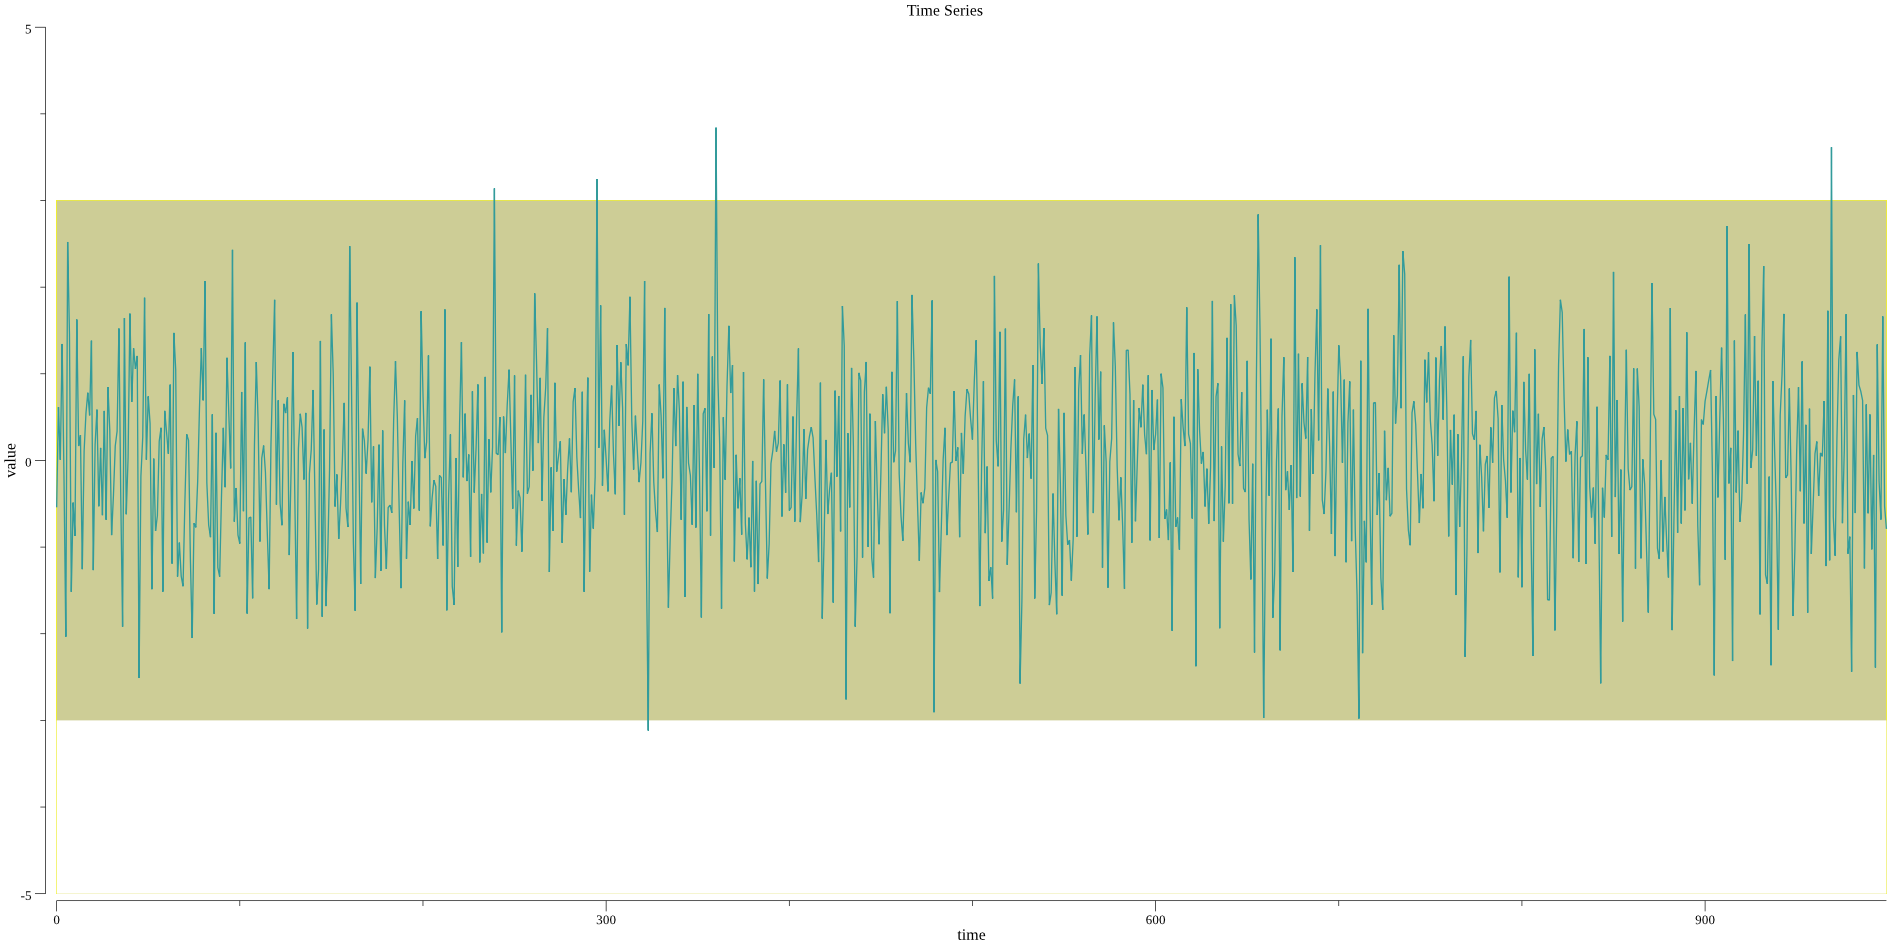
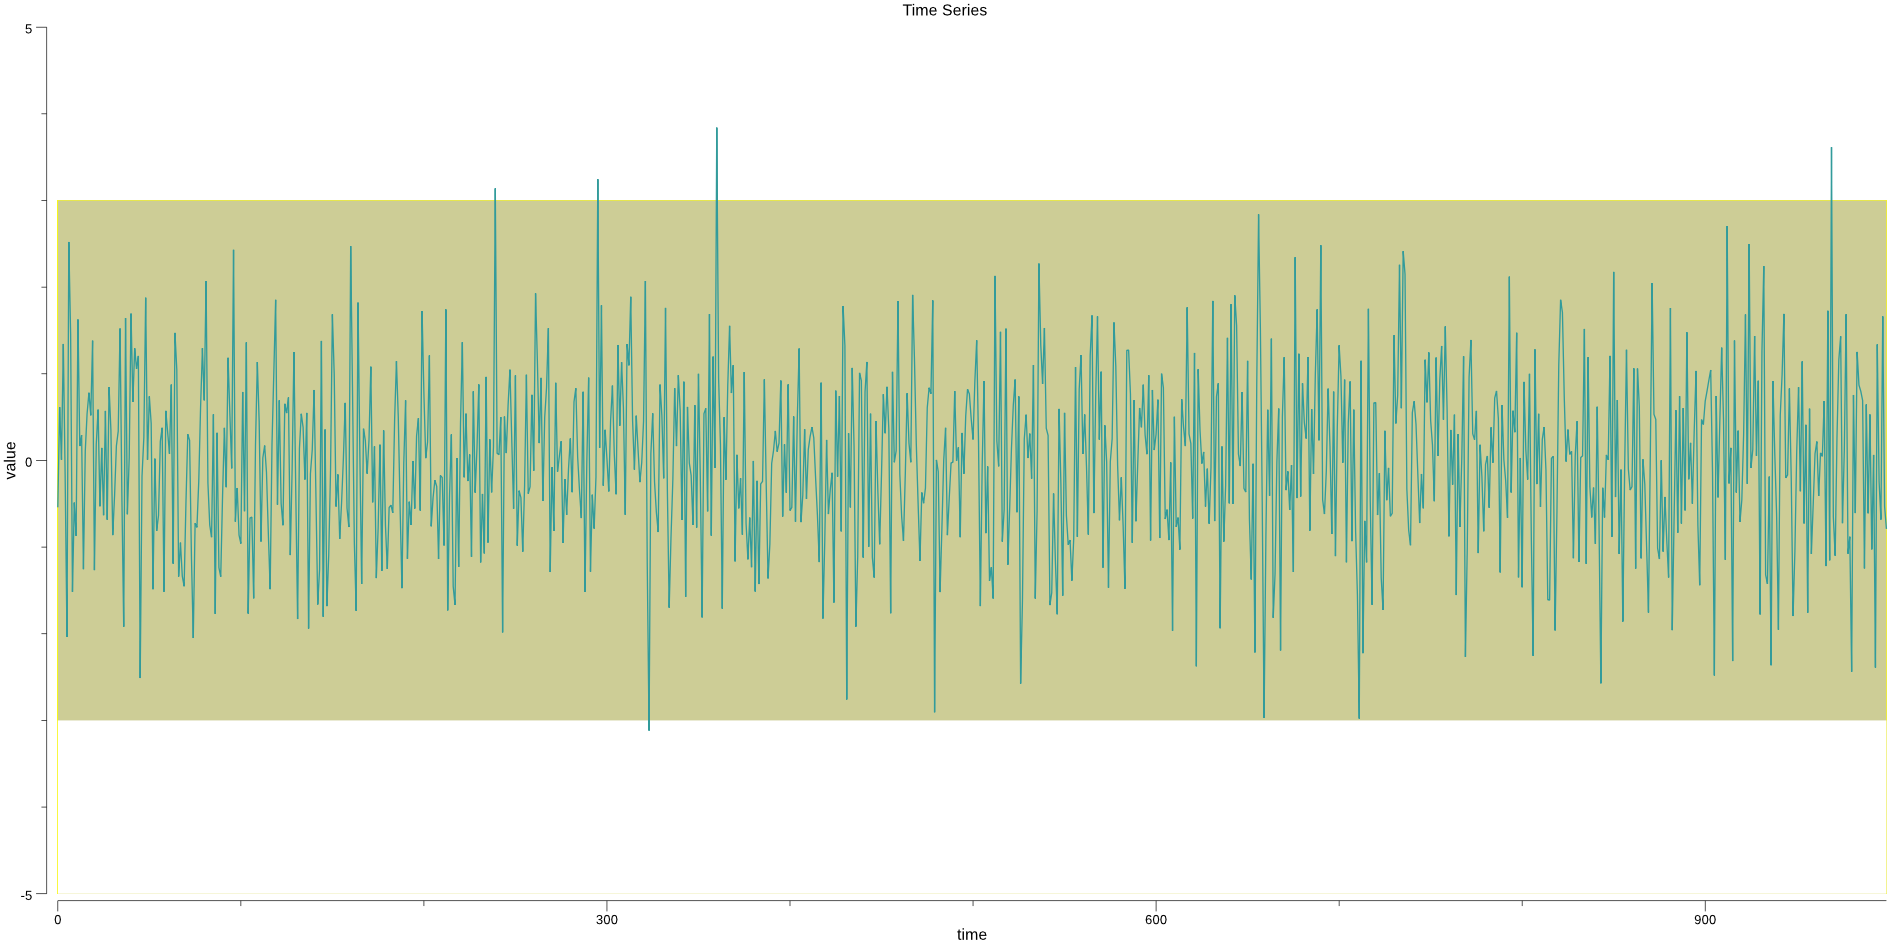
subplot working with bias

Changed region(s): [[0.0, 0.3069, 0.8741, 0.6751], [0.4683, 0.0, 0.5307, 0.0307], [0.4995, 0.982, 0.5307, 1.0]]

diff --git a/scatter.go b/scatter.go
@@ -3,12 +3,18 @@ package main
 import (
 	"image/color"
 	"log"
+	"math"
+	"os"
 
 	"golang.org/x/exp/rand"
+
 	"gonum.org/v1/gonum/stat/distuv"
-	"gonum.org/v1/plot"
 	"gonum.org/v1/plot/plotter"
 	"gonum.org/v1/plot/vg"
+	"gonum.org/v1/plot/vg/draw"
+	"gonum.org/v1/plot/vg/vgimg"
+
+	"go-hep.org/x/hep/hplot"
 )
 
 var shadeColor = []color.Color{
@@ -30,25 +36,35 @@ func main() {
 	data := make(plotter.XYs, nData)
 	hwyHigh := make(plotter.XYs, nData)
 	hwyLow := make(plotter.XYs, nData)
-	for i := range data {
-		data[i].X = float64(i)
-		data[i].Y = dist.Rand()
-		hwyHigh[i].X = float64(i)
-		hwyLow[i].X = float64(i)
-		hwyHigh[i].Y = dist.Mu + 3.*dist.Sigma
-		hwyLow[i].Y = dist.Mu - 3.*dist.Sigma
+	bias := make(plotter.XYs, nData)
+	for ii := range data {
+		data[ii].X = float64(ii)
+		data[ii].Y = dist.Rand()
+		hwyHigh[ii].X = float64(ii)
+		hwyLow[ii].X = float64(ii)
+		hwyHigh[ii].Y = dist.Mu + 3.*dist.Sigma
+		hwyLow[ii].Y = dist.Mu - 3.*dist.Sigma
+		if ii > 800 {
+			hwyHigh[ii].Y += (float64(ii) - 800.) / 100
+			hwyLow[ii].Y += (float64(ii) - 800.) / 100
+		}
+		bias[ii].X = float64(ii)
+		center := (hwyHigh[ii].Y + hwyLow[ii].Y) / 2.
+		width := (hwyHigh[ii].Y - hwyLow[ii].Y) / 2.
+		if width > 0. {
+			bias[ii].Y = (data[ii].Y - center) / width
+		} else {
+			bias[ii].Y = (data[ii].Y - center)
+		}
 	}
 
 	// Create plot
-	p, err := plot.New()
-	if err != nil {
-		log.Panic(err)
-	}
-	p.Title.Text = "Time Series"
-	p.Y.Min = -5.
-	p.Y.Max = 5.
-	p.Y.Label.Text = "value"
-	p.X.Label.Text = "time"
+	p1 := hplot.New()
+	p1.Title.Text = "Time Series"
+	p1.Y.Min = -5.
+	p1.Y.Max = 5.
+	p1.Y.Label.Text = "value"
+	p1.X.Tick.Marker = hplot.NoTicks{}
 
 	// Draw high
 	lineHigh, pointsHigh, err := plotter.NewLinePoints(hwyHigh)
@@ -59,7 +75,7 @@ func main() {
 	lineHigh.Color = color.RGBA{A: 0}
 	pointsHigh.Color = color.RGBA{A: 0}
 	lineHigh.ShadeColor = &shadeColor[1]
-	p.Add(lineHigh, pointsHigh)
+	p1.Add(lineHigh, pointsHigh)
 
 	// Draw low
 	lineLow, pointsLow, err := plotter.NewLinePoints(hwyLow)
@@ -70,7 +86,7 @@ func main() {
 	lineLow.Color = color.RGBA{A: 0}
 	pointsLow.Color = color.RGBA{A: 0}
 	lineLow.ShadeColor = &shadeColor[0]
-	p.Add(lineLow, pointsLow)
+	p1.Add(lineLow, pointsLow)
 
 	// Draw data
 	line, points, err := plotter.NewLinePoints(data)
@@ -81,12 +97,76 @@ func main() {
 	line.Color = color.RGBA{G: 155, B: 155, R: 50, A: 255}
 	points.Color = color.RGBA{A: 0}
 
-	p.Add(line, points)
+	p1.Add(line, points)
 
-	// Print
-	err = p.Save(50*vg.Centimeter, 25*vg.Centimeter, "testdata/timeseries.png")
+	// Create lower plot
+	p2 := hplot.New()
+	p2.Y.Label.Text = "bias"
+	p2.X.Label.Text = "time"
+	p2.Add(hplot.NewGrid())
+
+	//Determine bias mixima
+	min := 100.
+	max := -100.
+	for _, xx := range bias {
+		if xx.Y < min {
+			min = xx.Y
+		}
+		if xx.Y > max {
+			max = xx.Y
+		}
+	}
+	p2.Y.Min = min
+	p2.Y.Max = max
+
+	// Draw bias
+	lineBias, pointsBias, err := plotter.NewLinePoints(bias)
 	if err != nil {
 		log.Panic(err)
+	}
+
+	lineBias.Color = color.RGBA{G: 50, B: 155, R: 155, A: 255}
+	pointsBias.Color = color.RGBA{A: 0}
+
+	p2.Add(lineBias, pointsBias)
+
+	const (
+		width  = 40 * vg.Centimeter
+		height = width / math.Phi
+	)
+
+	c := vgimg.PngCanvas{Canvas: vgimg.New(width, height)}
+	dc := draw.New(c)
+	top := draw.Canvas{
+		Canvas: dc,
+		Rectangle: vg.Rectangle{
+			Min: vg.Point{X: 0, Y: 0.3 * height},
+			Max: vg.Point{X: width, Y: height},
+		},
+	}
+	p1.Draw(top)
+
+	bottom := draw.Canvas{
+		Canvas: dc,
+		Rectangle: vg.Rectangle{
+			Min: vg.Point{X: 0, Y: 0},
+			Max: vg.Point{X: width, Y: 0.3 * height},
+		},
+	}
+	p2.Draw(bottom)
+
+	f, err := os.Create("testdata/timeseries_bias.png")
+	if err != nil {
+		log.Fatalf("error: %v\n", err)
+	}
+	defer f.Close()
+	_, err = c.WriteTo(f)
+	if err != nil {
+		log.Fatal(err)
+	}
+	err = f.Close()
+	if err != nil {
+		log.Fatal(err)
 	}
 
 }
